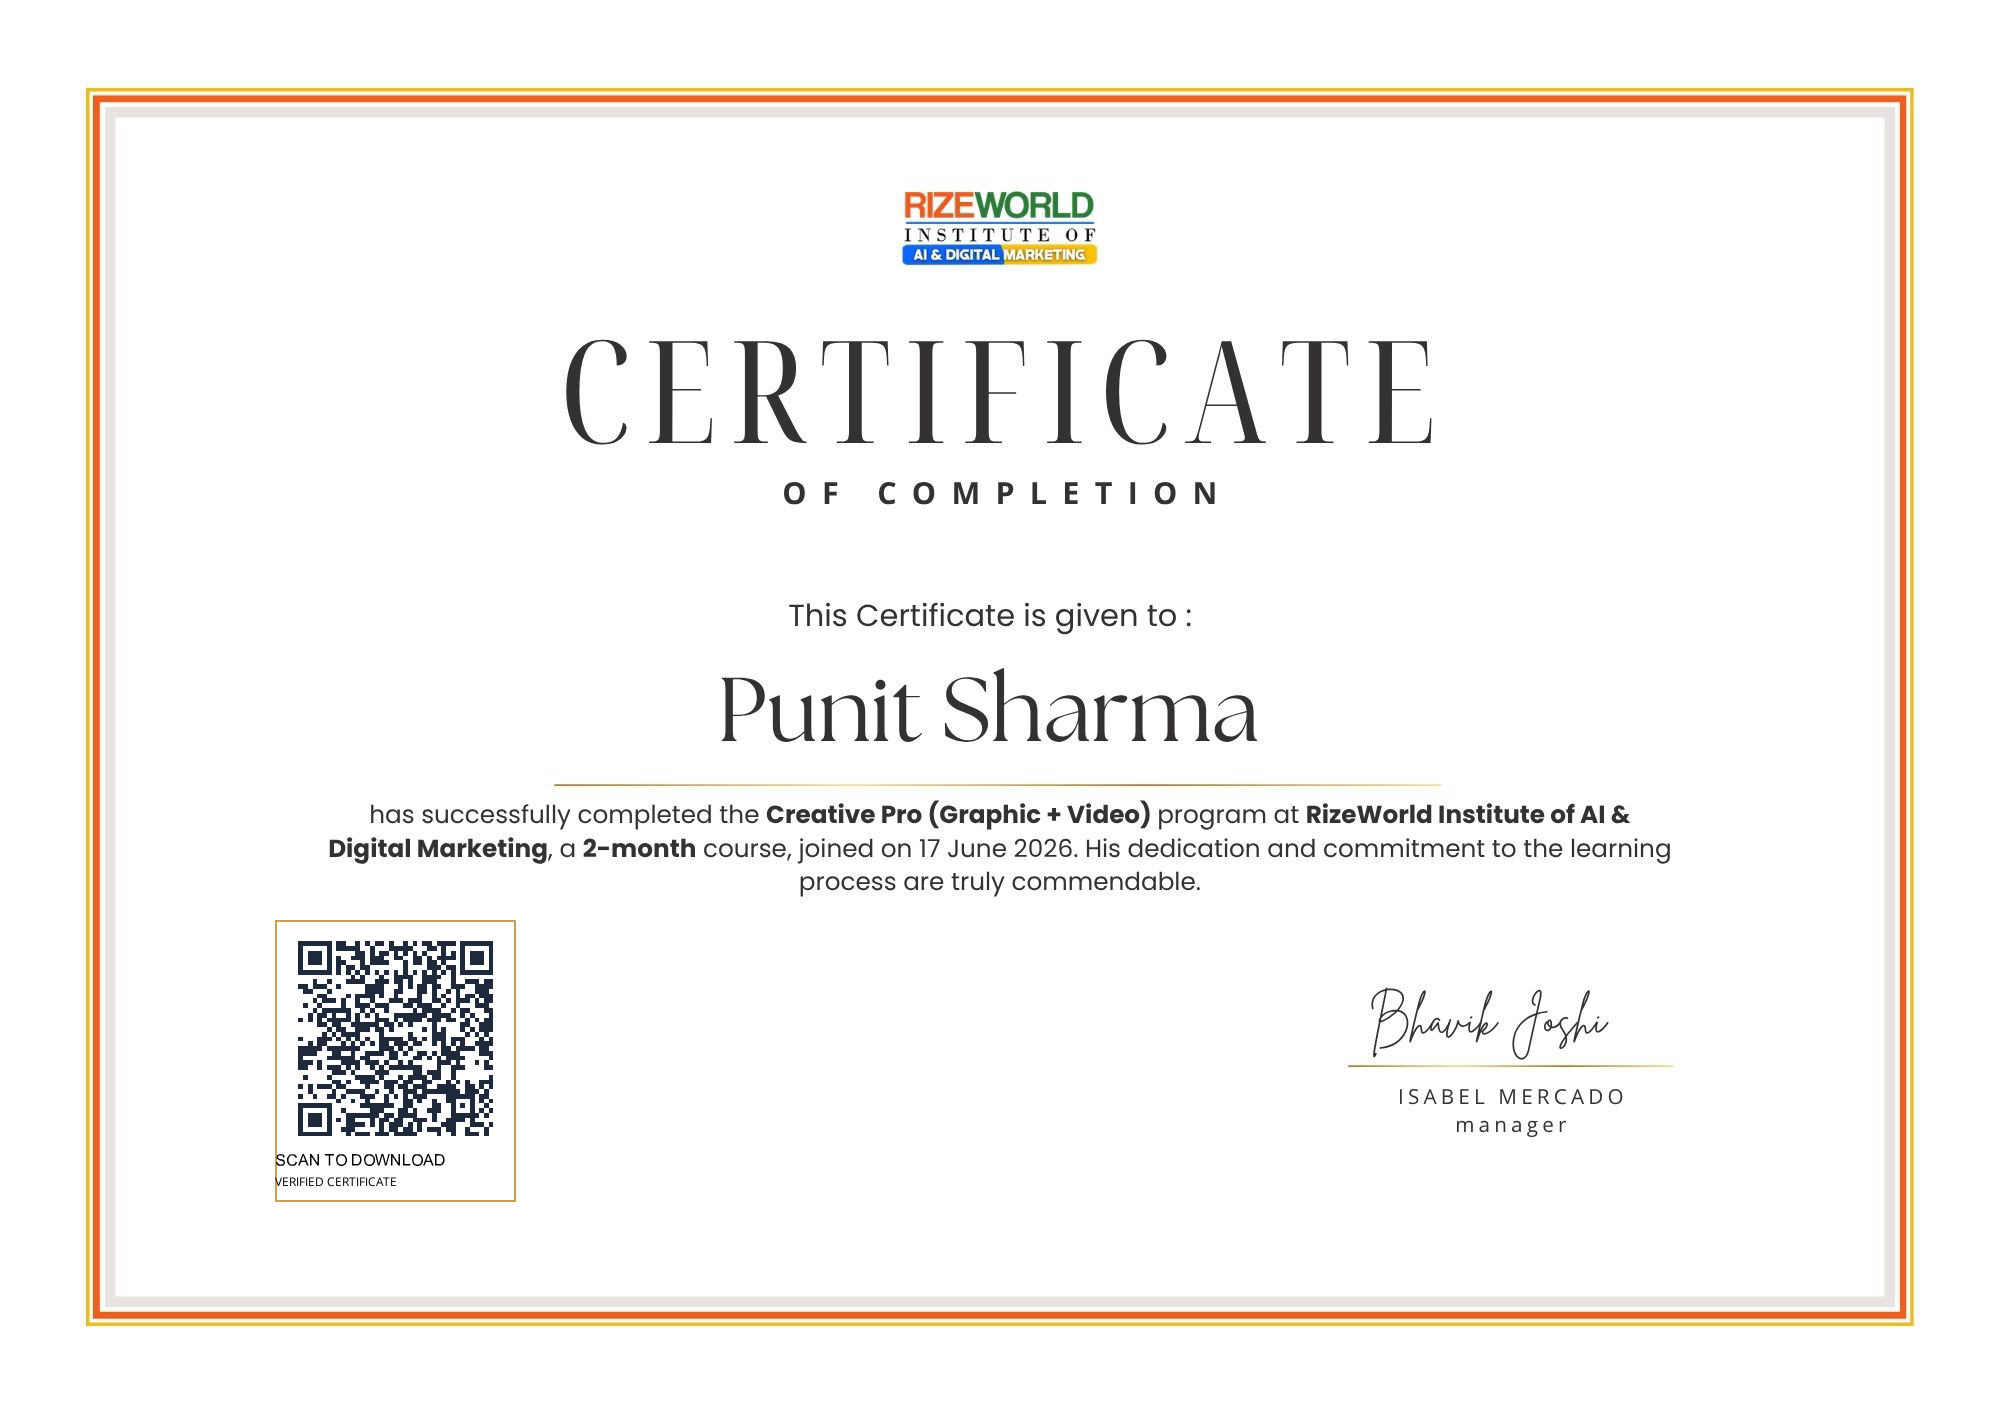
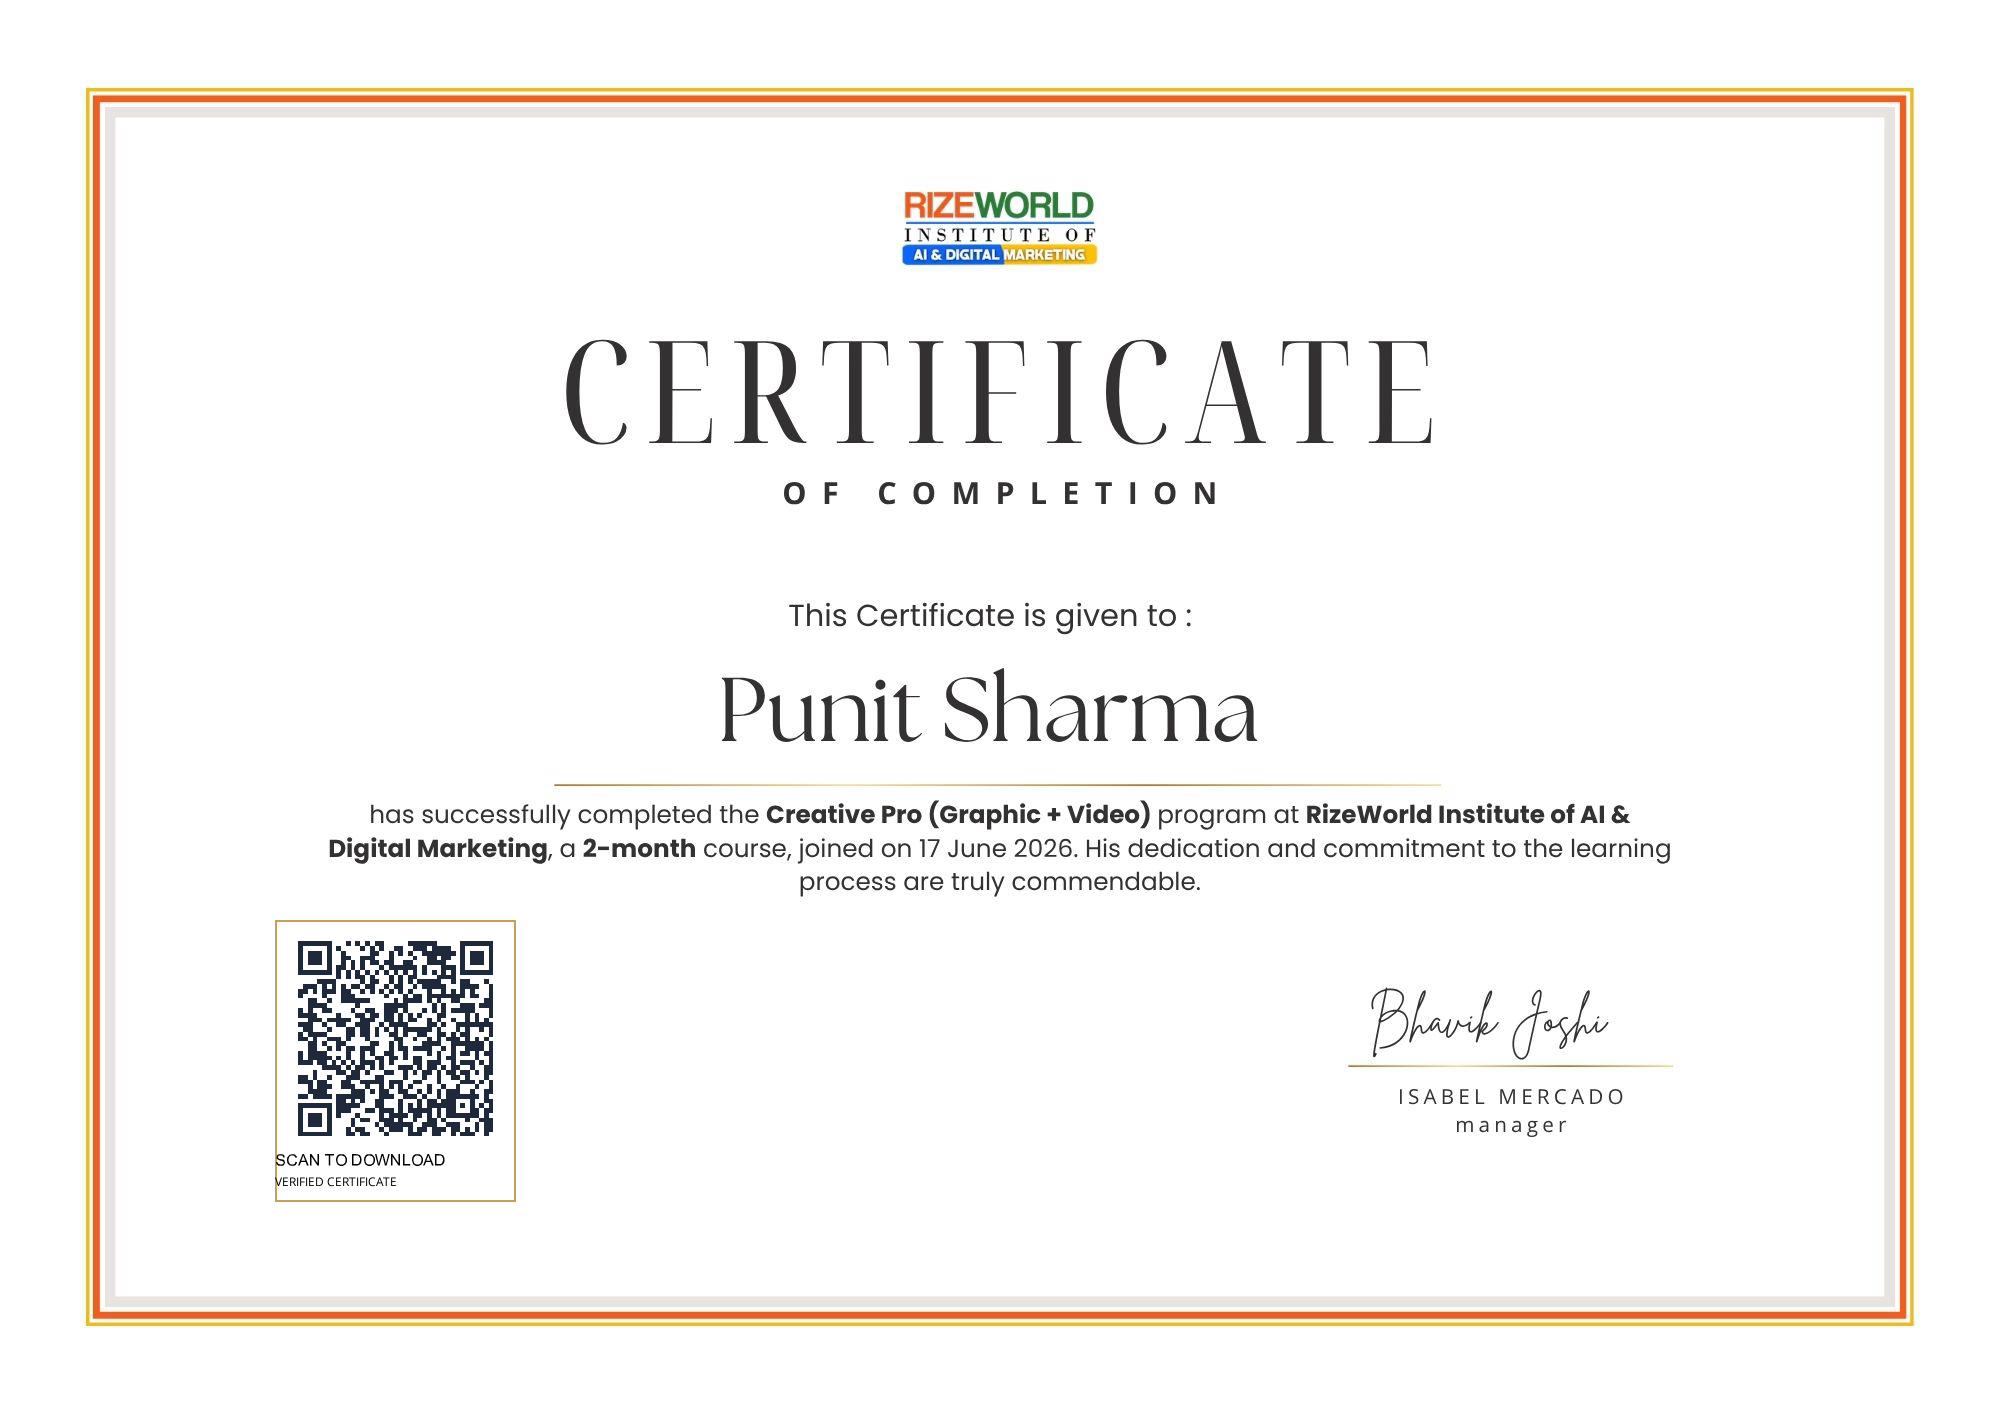
update: certificate QR code with verified live download endpoint

Changed region(s): [[0.124, 0.6535, 0.248, 0.8091]]

diff --git a/backend/stamp_certificate.js b/backend/stamp_certificate.js
@@ -12,8 +12,8 @@ async function stampCertificate() {
   // Read the original certificate
   const certImage = await Jimp.read(originalCertPath);
 
-  // Target URL: Pointing directly to download-certificate endpoint
-  const targetUrl = 'https://rizeworldinstitute.in/download-certificate';
+  // Target URL: Live Render direct download endpoint (verified 200 OK & instant attachment download)
+  const targetUrl = 'https://institute-rize.onrender.com/download-certificate';
 
   // Generate QR Code with high resolution
   const qrSize = 205;
